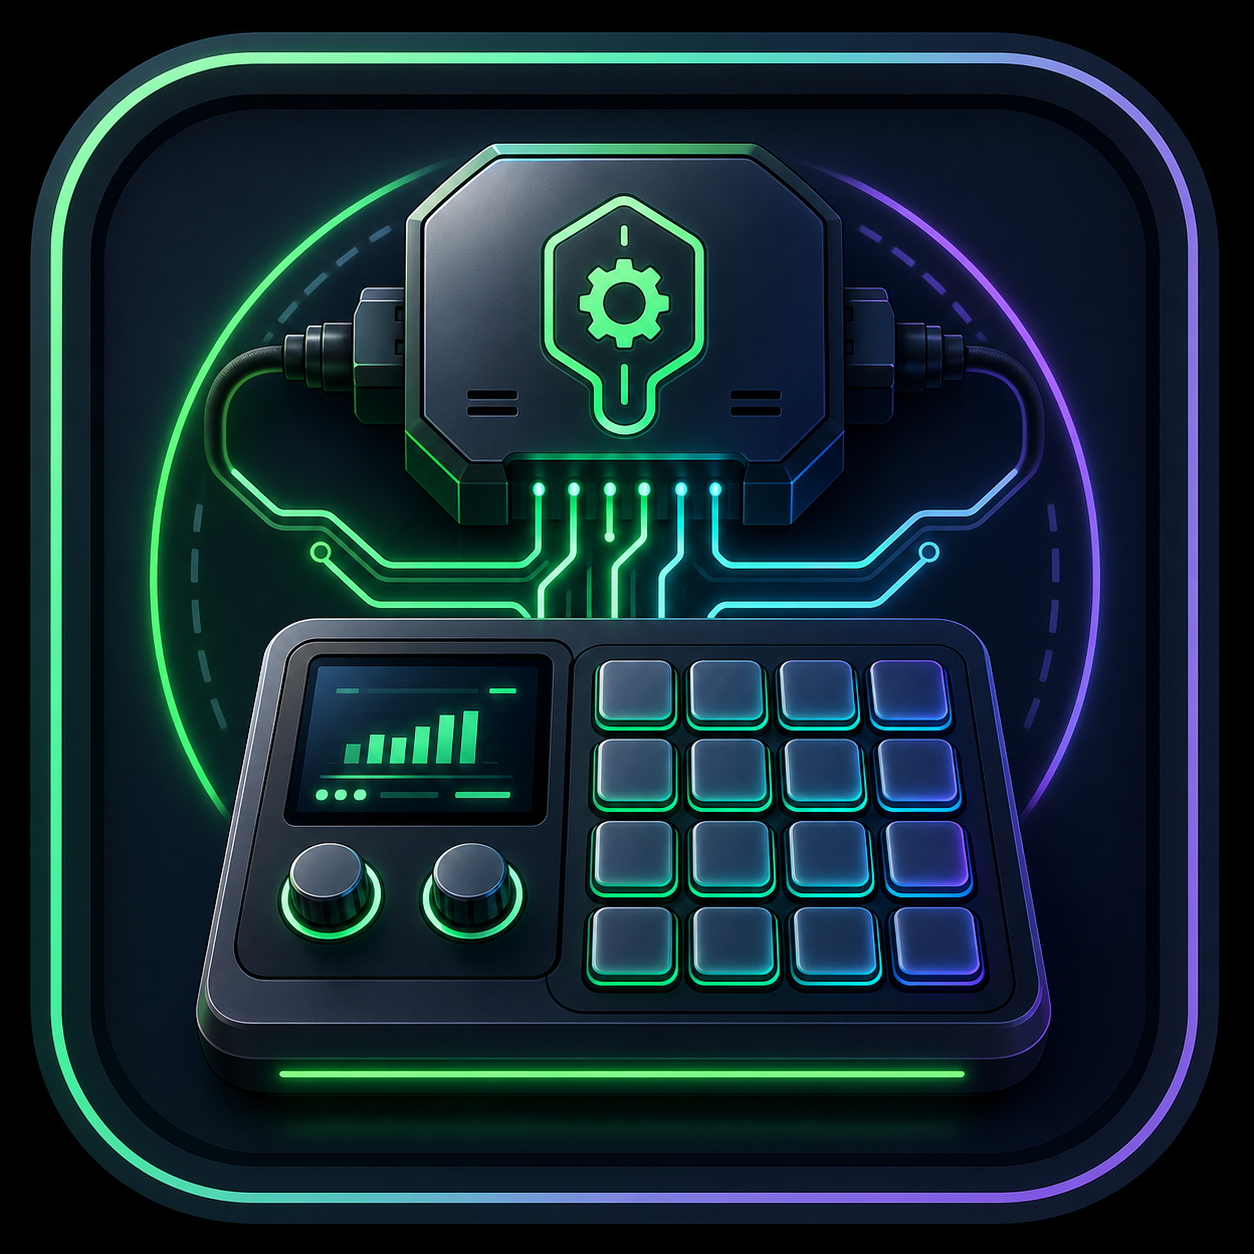
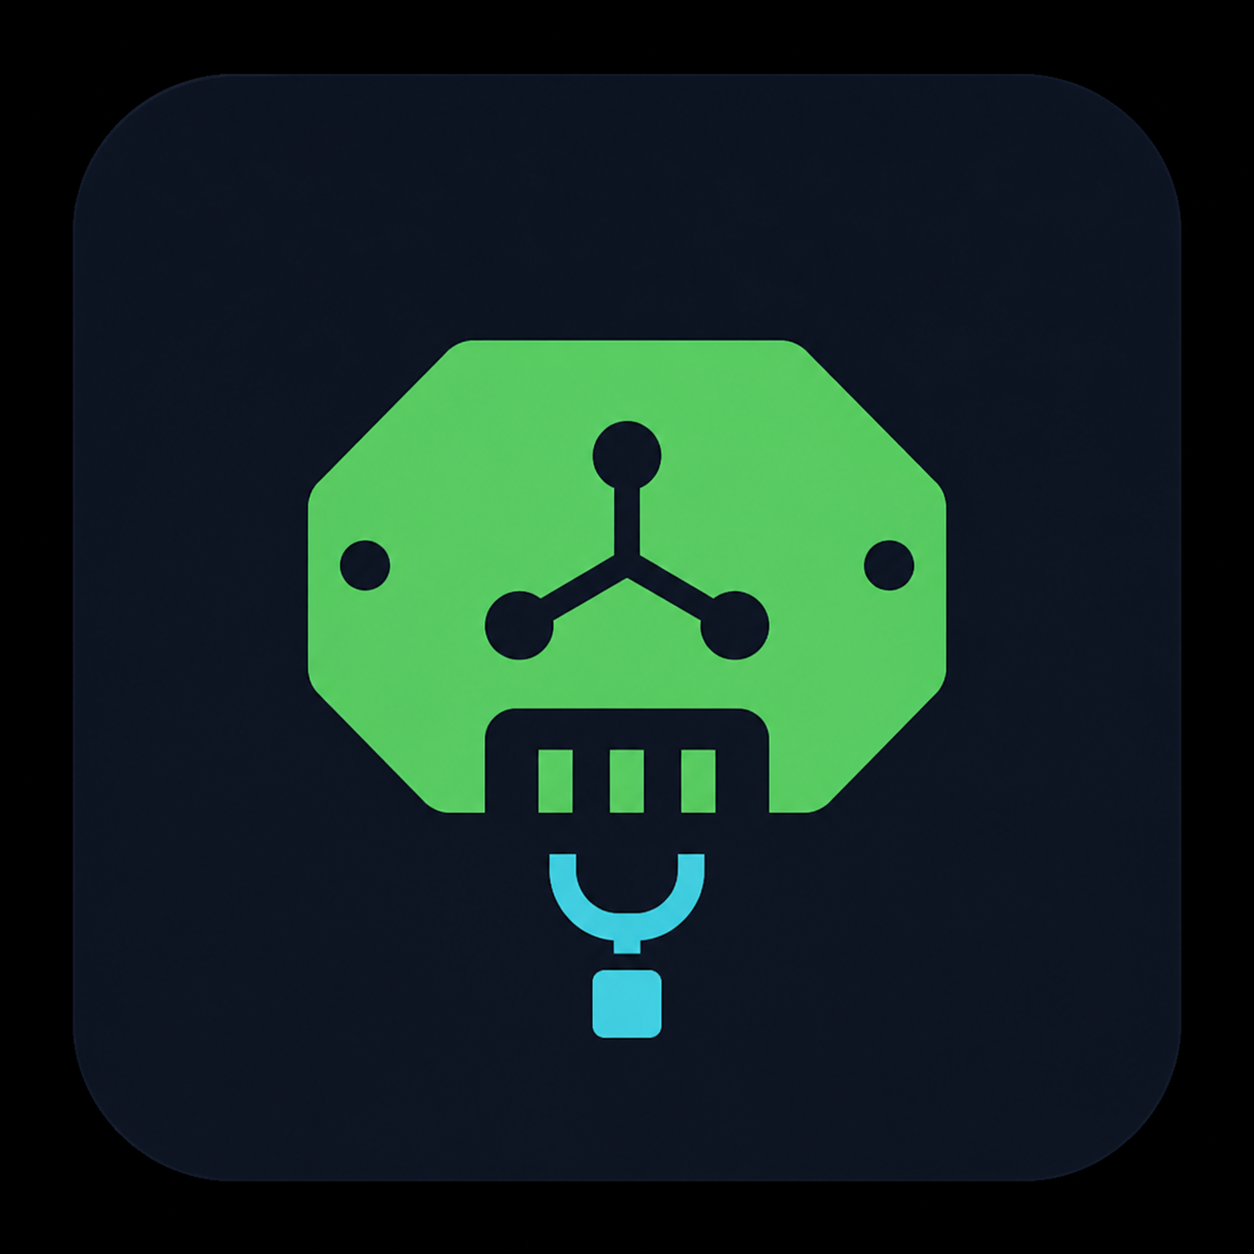
Add N4 boot splash upload support

diff --git a/extensions/io.github.robdevice.vsdinside.n4/n4driverext/n4_driver_support.py b/extensions/io.github.robdevice.vsdinside.n4/n4driverext/n4_driver_support.py
@@ -15,6 +15,7 @@ from .n4_icons import (
 )
 from .n4_session import N4DeviceSession
 from .vendor.vsdn4 import hidraw
+from .vendor.vsdn4.icon_upload import build_boot_logo_from_path
 
 
 class N4DriverSupport(Driver):
@@ -47,7 +48,7 @@ class N4DriverSupport(Driver):
         }
 
     def default_settings(self) -> dict:
-        return {"brightness": 80}
+        return {"brightness": 80, "boot_splash_path": ""}
 
     def settings_schema(self) -> dict:
         return {
@@ -59,7 +60,13 @@ class N4DriverSupport(Driver):
                     "maximum": 100,
                     "default": 80,
                     "title": "Brightness",
-                }
+                },
+                "boot_splash_path": {
+                    "type": "string",
+                    "default": "",
+                    "title": "Boot splash",
+                    "format": "image-asset",
+                },
             },
         }
 
@@ -249,10 +256,31 @@ class N4DriverSupport(Driver):
     def force_heartbeat(self) -> bool:
         return self._session.force_heartbeat()
 
-    def apply_runtime_settings(self, driver_settings: dict, changed_keys: set[str] | None = None) -> None:
+    def apply_runtime_settings(
+        self,
+        driver_settings: dict,
+        changed_keys: set[str] | None = None,
+        *,
+        asset_loader=None,
+    ) -> None:
         changed = changed_keys or set(driver_settings)
         if "brightness" in changed:
             self._session.set_brightness(int(driver_settings.get("brightness", self.default_settings().get("brightness", 80))))
+        if "boot_splash_path" in changed:
+            snapshot = self._session.snapshot()
+            if not snapshot.connected or asset_loader is None:
+                return
+            relative_path = str(driver_settings.get("boot_splash_path", "") or "").strip()
+            if not relative_path:
+                return
+            resolved = asset_loader(relative_path)
+            if resolved is None:
+                return
+            try:
+                target = build_boot_logo_from_path(resolved)
+            except (OSError, ValueError):
+                return
+            self._session.upload_boot_logo(target.image)
 
     def sync_control_visual(self, control_id: str, module_payload: dict, asset_loader=None) -> None:
         snapshot = self._session.snapshot()

diff --git a/extensions/io.github.robdevice.vsdinside.n4/n4driverext/n4_session.py b/extensions/io.github.robdevice.vsdinside.n4/n4driverext/n4_session.py
@@ -105,6 +105,12 @@ class N4DeviceSession:
             self._write_packet(report)
         self._write_packet(protocol.finish_command())
 
+    def upload_boot_logo(self, image_bytes: bytes, logo_type: int = 0x02) -> None:
+        self._write_packet(protocol.logo_size_header(len(image_bytes), logo_type=logo_type))
+        for report in payload_reports(image_bytes):
+            self._write_packet(report)
+        self._write_packet(protocol.finish_command())
+
     def _send_startup(self, brightness: int | None = None) -> None:
         self._write_packet(protocol.handshake())
         self._write_packet(protocol.heartbeat())